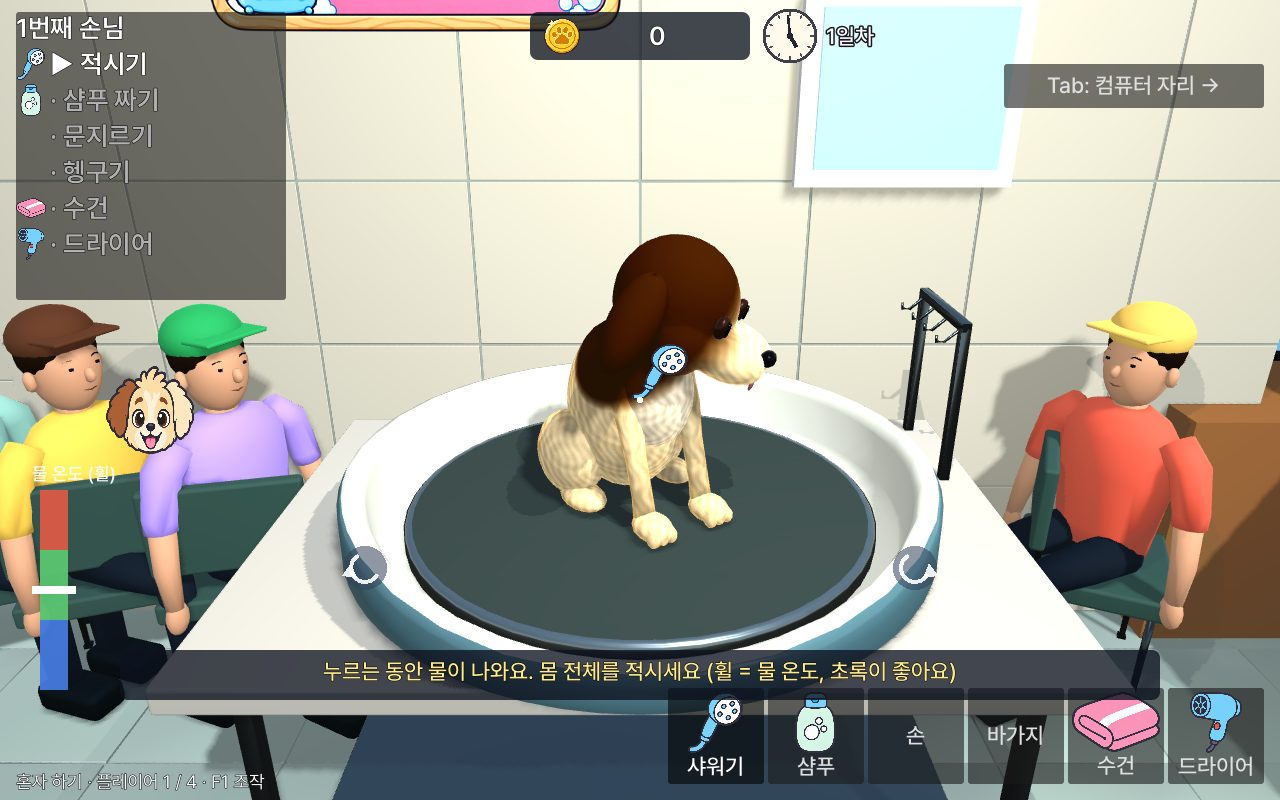
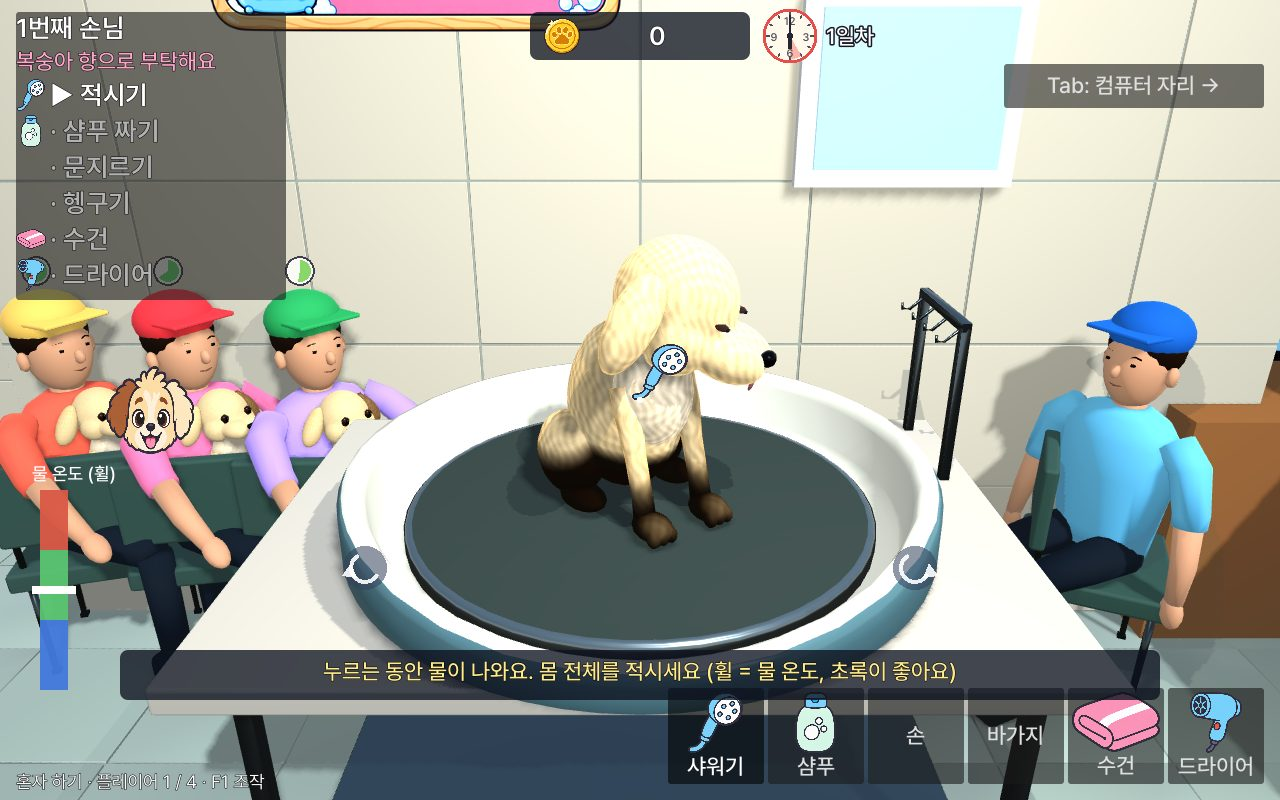
[개발] 하루 영업 다듬기: 참을성 원, 강아지 안은 대기 손님, 옷 겹침 없음, 벽시계 숫자·마감 칸, 일찍 끝나면 6시까지 (#50)
* [개발] 하루 영업 다듬기: 참을성 원, 강아지 안은 대기 손님, 옷 겹침 없음, 벽시계 숫자·마감 칸, 일찍 끝나면 6시까지 빨리

QA #45 리뷰 4개와 기획 제안:
- 대기 의자를 HUD 에 덜 가리게 안쪽·뒤로, 머리 위에 남은 참을성 원
- 대기 손님이 강아지를 안고 있음 (무릎 위 / 서면 가슴 앞)
- 같이 있는 손님끼리 주인 옷 모양이 겹치지 않음
- 벽시계 12·3·6·9 숫자, 5~6시 마감 칸 빨강
- 손님을 일찍 다 받으면 벽시계를 1.5초 동안 6시까지 돌리고 영업 끝 (closing 동기화)

Claude-Session: https://claude.ai/code/session_011AhoxvjuUAeZ5SvtvgroTK

* [개발] 참을성 원을 카드 밑 층·화면 안으로, 안은 강아지를 몸 쪽으로, 대기 의자 조금 더 안쪽 (QA #50)

Claude-Session: https://claude.ai/code/session_011AhoxvjuUAeZ5SvtvgroTK

---------

diff --git a/docs/status/dev.md b/docs/status/dev.md
@@ -1,8 +1,9 @@
 # 개발팀 상태
 
-**지금 하는 일**: 수직 단면 1장 "하루 영업" PR (`dev/day-loop`). 다음: 2장(손동작 점검) → 3장(고양이·성격) → 4장(정산·쇼핑·다음 날) 순서로 작은 PR
+**지금 하는 일**: 하루 영업 다듬기 PR (`dev/day-polish`, QA #45 리뷰 4개 + 기획 제안). 다음: 체크리스트 3장(고양이·성격) → 4장(정산·쇼핑·다음 날)
 
 **끝낸 일**:
+- 하루 영업 다듬기 (QA #45 리뷰·기획 제안): 대기 의자를 HUD 에 덜 가리게 안쪽으로 + 머리 위 남은 참을성 원, 대기 손님이 강아지를 안고 있음, 같이 있는 손님끼리 옷이 겹치지 않음, 벽시계에 12·3·6·9 와 마감 칸(5~6시) 빨강, 손님을 일찍 다 받으면 시계를 6시까지 빠르게 돌리고 "영업 끝"
 - 이슈 #44: 새 GLB 강아지의 머리·다리가 움직이면 진흙·젖음 무늬가 미끄러지던 것 고침 (털 셰이더가 부위마다 처음 자세 위치로 마스크를 찾음). 진흙 색을 받은 그림의 갈색 귀와 헷갈리지 않게 어두운 회갈색으로
 - 수직 단면 1장 하루 영업: 벽시계(9시→6시, 8분), 차례로 오는 손님(1·2·3일차 4·5·6명), 대기 의자 3개·문밖 줄, 기다림 몸짓(시계 보기 → 발 구르기 → 시무룩), 오래 기다리면 떠남(0원), 접수(말풍선 → 요청 카드가 날아와 걸림), 6시 뒤 새 손님 없음, 영업 끝 알림. 문 종 "딸랑". 이슈 #40: 첫 손님이 시작하자마자 들어옴
 - retail-v2 GLB 실제 게임 연결 (사용자 지시, #43): 조명·털 셰이더·주인 앉기·한글 HUD 보정. 실행 사진과 검수: `docs/dev/RETAIL_ART_INTEGRATION.md`
